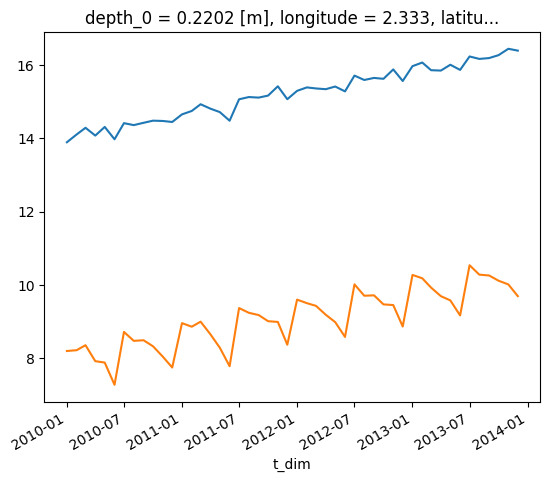
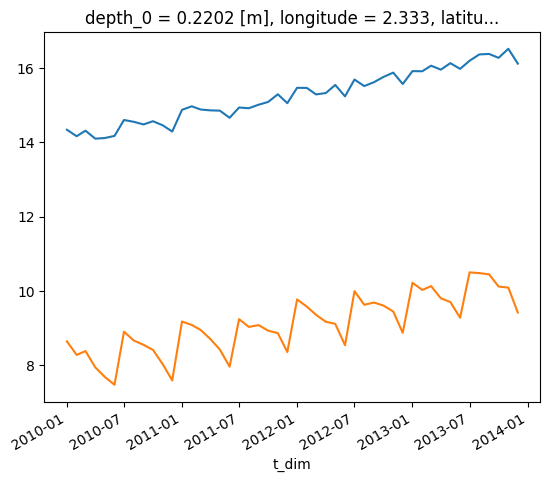
Updated General notebook pages from coast repo.

diff --git a/content/en/docs/Examples/Notebooks/General/seasonal_decomp_example.md b/content/en/docs/Examples/Notebooks/General/seasonal_decomp_example.md
@@ -88,7 +88,7 @@ temperature[0,0,:,:].plot()
 
 
 
-    <matplotlib.collections.QuadMesh at 0x7f105047bc40>
+    <matplotlib.collections.QuadMesh at 0x7fbbc1961220>
 
 
 
@@ -109,7 +109,7 @@ temperature[:,0,200,200].plot()
 
 
 
-    [<matplotlib.lines.Line2D at 0x7f10502c4820>]
+    [<matplotlib.lines.Line2D at 0x7fbbc081bbb0>]
 
 
 
@@ -516,7 +516,7 @@ Dimensions without coordinates: z_dim, y_dim, x_dim
 Data variables:
     trend      (t_dim, z_dim, y_dim, x_dim) float64 nan nan nan ... nan nan nan
     seasonal   (t_dim, z_dim, y_dim, x_dim) float64 nan nan nan ... nan nan nan
-    residual   (t_dim, z_dim, y_dim, x_dim) float64 nan nan nan ... nan nan nan</pre><div class='xr-wrap' style='display:none'><div class='xr-header'><div class='xr-obj-type'>xarray.Dataset</div></div><ul class='xr-sections'><li class='xr-section-item'><input id='section-488f6201-9f62-4a6c-a8ab-4d15d6003612' class='xr-section-summary-in' type='checkbox' disabled ><label for='section-488f6201-9f62-4a6c-a8ab-4d15d6003612' class='xr-section-summary'  title='Expand/collapse section'>Dimensions:</label><div class='xr-section-inline-details'><ul class='xr-dim-list'><li><span class='xr-has-index'>t_dim</span>: 48</li><li><span>z_dim</span>: 2</li><li><span>y_dim</span>: 375</li><li><span>x_dim</span>: 297</li></ul></div><div class='xr-section-details'></div></li><li class='xr-section-item'><input id='section-415a7630-a458-4ae2-a37a-148b297d26a3' class='xr-section-summary-in' type='checkbox'  checked><label for='section-415a7630-a458-4ae2-a37a-148b297d26a3' class='xr-section-summary' >Coordinates: <span>(4)</span></label><div class='xr-section-inline-details'></div><div class='xr-section-details'><ul class='xr-var-list'><li class='xr-var-item'><div class='xr-var-name'><span class='xr-has-index'>t_dim</span></div><div class='xr-var-dims'>(t_dim)</div><div class='xr-var-dtype'>datetime64[ns]</div><div class='xr-var-preview xr-preview'>2010-01-01 ... 2013-12-01</div><input id='attrs-31017391-6084-442f-8f90-3de100cf07af' class='xr-var-attrs-in' type='checkbox' disabled><label for='attrs-31017391-6084-442f-8f90-3de100cf07af' title='Show/Hide attributes'><svg class='icon xr-icon-file-text2'><use xlink:href='#icon-file-text2'></use></svg></label><input id='data-7dfa92f4-e4d8-482c-af1e-b7b2e54ce612' class='xr-var-data-in' type='checkbox'><label for='data-7dfa92f4-e4d8-482c-af1e-b7b2e54ce612' title='Show/Hide data repr'><svg class='icon xr-icon-database'><use xlink:href='#icon-database'></use></svg></label><div class='xr-var-attrs'><dl class='xr-attrs'></dl></div><div class='xr-var-data'><pre>array([&#x27;2010-01-01T00:00:00.000000000&#x27;, &#x27;2010-02-01T00:00:00.000000000&#x27;,
+    residual   (t_dim, z_dim, y_dim, x_dim) float64 nan nan nan ... nan nan nan</pre><div class='xr-wrap' style='display:none'><div class='xr-header'><div class='xr-obj-type'>xarray.Dataset</div></div><ul class='xr-sections'><li class='xr-section-item'><input id='section-a675e13e-d034-49c0-a6f8-c8fabd6f3ec2' class='xr-section-summary-in' type='checkbox' disabled ><label for='section-a675e13e-d034-49c0-a6f8-c8fabd6f3ec2' class='xr-section-summary'  title='Expand/collapse section'>Dimensions:</label><div class='xr-section-inline-details'><ul class='xr-dim-list'><li><span class='xr-has-index'>t_dim</span>: 48</li><li><span>z_dim</span>: 2</li><li><span>y_dim</span>: 375</li><li><span>x_dim</span>: 297</li></ul></div><div class='xr-section-details'></div></li><li class='xr-section-item'><input id='section-d7b93760-6b34-47dd-b63c-cba52e8f0858' class='xr-section-summary-in' type='checkbox'  checked><label for='section-d7b93760-6b34-47dd-b63c-cba52e8f0858' class='xr-section-summary' >Coordinates: <span>(4)</span></label><div class='xr-section-inline-details'></div><div class='xr-section-details'><ul class='xr-var-list'><li class='xr-var-item'><div class='xr-var-name'><span class='xr-has-index'>t_dim</span></div><div class='xr-var-dims'>(t_dim)</div><div class='xr-var-dtype'>datetime64[ns]</div><div class='xr-var-preview xr-preview'>2010-01-01 ... 2013-12-01</div><input id='attrs-86c6580d-7daa-42fa-ab41-ec7627101b7a' class='xr-var-attrs-in' type='checkbox' disabled><label for='attrs-86c6580d-7daa-42fa-ab41-ec7627101b7a' title='Show/Hide attributes'><svg class='icon xr-icon-file-text2'><use xlink:href='#icon-file-text2'></use></svg></label><input id='data-8cd18c7d-f1ab-4517-a1e8-da5e5eaf7d29' class='xr-var-data-in' type='checkbox'><label for='data-8cd18c7d-f1ab-4517-a1e8-da5e5eaf7d29' title='Show/Hide data repr'><svg class='icon xr-icon-database'><use xlink:href='#icon-database'></use></svg></label><div class='xr-var-attrs'><dl class='xr-attrs'></dl></div><div class='xr-var-data'><pre>array([&#x27;2010-01-01T00:00:00.000000000&#x27;, &#x27;2010-02-01T00:00:00.000000000&#x27;,
        &#x27;2010-03-01T00:00:00.000000000&#x27;, &#x27;2010-04-01T00:00:00.000000000&#x27;,
        &#x27;2010-05-01T00:00:00.000000000&#x27;, &#x27;2010-06-01T00:00:00.000000000&#x27;,
        &#x27;2010-07-01T00:00:00.000000000&#x27;, &#x27;2010-08-01T00:00:00.000000000&#x27;,
@@ -540,7 +540,7 @@ Data variables:
        &#x27;2013-07-01T00:00:00.000000000&#x27;, &#x27;2013-08-01T00:00:00.000000000&#x27;,
        &#x27;2013-09-01T00:00:00.000000000&#x27;, &#x27;2013-10-01T00:00:00.000000000&#x27;,
        &#x27;2013-11-01T00:00:00.000000000&#x27;, &#x27;2013-12-01T00:00:00.000000000&#x27;],
-      dtype=&#x27;datetime64[ns]&#x27;)</pre></div></li><li class='xr-var-item'><div class='xr-var-name'><span>depth_0</span></div><div class='xr-var-dims'>(z_dim, y_dim, x_dim)</div><div class='xr-var-dtype'>float32</div><div class='xr-var-preview xr-preview'>0.5 0.5 0.5 0.5 ... 1.5 1.5 1.5 1.5</div><input id='attrs-51cff84f-f42b-4898-b126-81de043ced5f' class='xr-var-attrs-in' type='checkbox' ><label for='attrs-51cff84f-f42b-4898-b126-81de043ced5f' title='Show/Hide attributes'><svg class='icon xr-icon-file-text2'><use xlink:href='#icon-file-text2'></use></svg></label><input id='data-d42b8908-6994-4aba-a6fd-14925ca093ee' class='xr-var-data-in' type='checkbox'><label for='data-d42b8908-6994-4aba-a6fd-14925ca093ee' title='Show/Hide data repr'><svg class='icon xr-icon-database'><use xlink:href='#icon-database'></use></svg></label><div class='xr-var-attrs'><dl class='xr-attrs'><dt><span>units :</span></dt><dd>m</dd><dt><span>standard_name :</span></dt><dd>Depth at time zero on the t-grid</dd></dl></div><div class='xr-var-data'><pre>array([[[0.5       , 0.5       , 0.5       , ..., 0.5       ,
+      dtype=&#x27;datetime64[ns]&#x27;)</pre></div></li><li class='xr-var-item'><div class='xr-var-name'><span>depth_0</span></div><div class='xr-var-dims'>(z_dim, y_dim, x_dim)</div><div class='xr-var-dtype'>float32</div><div class='xr-var-preview xr-preview'>0.5 0.5 0.5 0.5 ... 1.5 1.5 1.5 1.5</div><input id='attrs-58fb2e4d-7730-4e13-a35d-6566832864b2' class='xr-var-attrs-in' type='checkbox' ><label for='attrs-58fb2e4d-7730-4e13-a35d-6566832864b2' title='Show/Hide attributes'><svg class='icon xr-icon-file-text2'><use xlink:href='#icon-file-text2'></use></svg></label><input id='data-e87dfb83-8d6d-4455-ab87-78f550e2a42e' class='xr-var-data-in' type='checkbox'><label for='data-e87dfb83-8d6d-4455-ab87-78f550e2a42e' title='Show/Hide data repr'><svg class='icon xr-icon-database'><use xlink:href='#icon-database'></use></svg></label><div class='xr-var-attrs'><dl class='xr-attrs'><dt><span>units :</span></dt><dd>m</dd><dt><span>standard_name :</span></dt><dd>Depth at time zero on the t-grid</dd></dl></div><div class='xr-var-data'><pre>array([[[0.5       , 0.5       , 0.5       , ..., 0.5       ,
          0.5       , 0.5       ],
         [0.5       , 0.4975586 , 0.4975586 , ..., 0.10009766,
          0.10009766, 0.5       ],
@@ -566,7 +566,7 @@ Data variables:
         [1.5       , 0.30029297, 0.30029297, ..., 0.30029297,
          0.30029297, 1.5       ],
         [1.5       , 1.5       , 1.5       , ..., 1.5       ,
-         1.5       , 1.5       ]]], dtype=float32)</pre></div></li><li class='xr-var-item'><div class='xr-var-name'><span>longitude</span></div><div class='xr-var-dims'>(y_dim, x_dim)</div><div class='xr-var-dtype'>float32</div><div class='xr-var-preview xr-preview'>-19.89 -19.78 -19.67 ... 12.89 13.0</div><input id='attrs-e064d81a-f09c-4229-8bd5-89aa8d947b72' class='xr-var-attrs-in' type='checkbox' disabled><label for='attrs-e064d81a-f09c-4229-8bd5-89aa8d947b72' title='Show/Hide attributes'><svg class='icon xr-icon-file-text2'><use xlink:href='#icon-file-text2'></use></svg></label><input id='data-4b07b920-9634-4832-bc17-227da590a1f0' class='xr-var-data-in' type='checkbox'><label for='data-4b07b920-9634-4832-bc17-227da590a1f0' title='Show/Hide data repr'><svg class='icon xr-icon-database'><use xlink:href='#icon-database'></use></svg></label><div class='xr-var-attrs'><dl class='xr-attrs'></dl></div><div class='xr-var-data'><pre>array([[-19.888672, -19.777344, -19.666992, ...,  12.777344,  12.888672,
+         1.5       , 1.5       ]]], dtype=float32)</pre></div></li><li class='xr-var-item'><div class='xr-var-name'><span>longitude</span></div><div class='xr-var-dims'>(y_dim, x_dim)</div><div class='xr-var-dtype'>float32</div><div class='xr-var-preview xr-preview'>-19.89 -19.78 -19.67 ... 12.89 13.0</div><input id='attrs-f739bab9-daee-42c9-b183-90556fe66d80' class='xr-var-attrs-in' type='checkbox' disabled><label for='attrs-f739bab9-daee-42c9-b183-90556fe66d80' title='Show/Hide attributes'><svg class='icon xr-icon-file-text2'><use xlink:href='#icon-file-text2'></use></svg></label><input id='data-daa8380f-4b8f-4b75-9743-e97c11f80944' class='xr-var-data-in' type='checkbox'><label for='data-daa8380f-4b8f-4b75-9743-e97c11f80944' title='Show/Hide data repr'><svg class='icon xr-icon-database'><use xlink:href='#icon-database'></use></svg></label><div class='xr-var-attrs'><dl class='xr-attrs'></dl></div><div class='xr-var-data'><pre>array([[-19.888672, -19.777344, -19.666992, ...,  12.777344,  12.888672,
          13.      ],
        [-19.888672, -19.777344, -19.666992, ...,  12.777344,  12.888672,
          13.      ],
@@ -578,7 +578,7 @@ Data variables:
        [-19.888672, -19.777344, -19.666992, ...,  12.777344,  12.888672,
          13.      ],
        [-19.888672, -19.777344, -19.666992, ...,  12.777344,  12.888672,
-         13.      ]], dtype=float32)</pre></div></li><li class='xr-var-item'><div class='xr-var-name'><span>latitude</span></div><div class='xr-var-dims'>(y_dim, x_dim)</div><div class='xr-var-dtype'>float32</div><div class='xr-var-preview xr-preview'>40.07 40.07 40.07 ... 65.0 65.0</div><input id='attrs-8c1b1205-57bb-4192-ad6e-221c39f39ef8' class='xr-var-attrs-in' type='checkbox' disabled><label for='attrs-8c1b1205-57bb-4192-ad6e-221c39f39ef8' title='Show/Hide attributes'><svg class='icon xr-icon-file-text2'><use xlink:href='#icon-file-text2'></use></svg></label><input id='data-276e27f0-c8e9-480e-ac32-1137b9378629' class='xr-var-data-in' type='checkbox'><label for='data-276e27f0-c8e9-480e-ac32-1137b9378629' title='Show/Hide data repr'><svg class='icon xr-icon-database'><use xlink:href='#icon-database'></use></svg></label><div class='xr-var-attrs'><dl class='xr-attrs'></dl></div><div class='xr-var-data'><pre>array([[40.066406, 40.066406, 40.066406, ..., 40.066406, 40.066406,
+         13.      ]], dtype=float32)</pre></div></li><li class='xr-var-item'><div class='xr-var-name'><span>latitude</span></div><div class='xr-var-dims'>(y_dim, x_dim)</div><div class='xr-var-dtype'>float32</div><div class='xr-var-preview xr-preview'>40.07 40.07 40.07 ... 65.0 65.0</div><input id='attrs-6201d83b-96ed-4a39-bca7-b6a4849ae7dc' class='xr-var-attrs-in' type='checkbox' disabled><label for='attrs-6201d83b-96ed-4a39-bca7-b6a4849ae7dc' title='Show/Hide attributes'><svg class='icon xr-icon-file-text2'><use xlink:href='#icon-file-text2'></use></svg></label><input id='data-a8d03361-0828-40b6-9ec4-37c36b48d8f8' class='xr-var-data-in' type='checkbox'><label for='data-a8d03361-0828-40b6-9ec4-37c36b48d8f8' title='Show/Hide data repr'><svg class='icon xr-icon-database'><use xlink:href='#icon-database'></use></svg></label><div class='xr-var-attrs'><dl class='xr-attrs'></dl></div><div class='xr-var-data'><pre>array([[40.066406, 40.066406, 40.066406, ..., 40.066406, 40.066406,
         40.066406],
        [40.13379 , 40.13379 , 40.13379 , ..., 40.13379 , 40.13379 ,
         40.13379 ],
@@ -590,11 +590,11 @@ Data variables:
        [64.93457 , 64.93457 , 64.93457 , ..., 64.93457 , 64.93457 ,
         64.93457 ],
        [65.00098 , 65.00098 , 65.00098 , ..., 65.00098 , 65.00098 ,
-        65.00098 ]], dtype=float32)</pre></div></li></ul></div></li><li class='xr-section-item'><input id='section-532f3998-5415-4adb-89e6-6cbf18f1e282' class='xr-section-summary-in' type='checkbox'  checked><label for='section-532f3998-5415-4adb-89e6-6cbf18f1e282' class='xr-section-summary' >Data variables: <span>(3)</span></label><div class='xr-section-inline-details'></div><div class='xr-section-details'><ul class='xr-var-list'><li class='xr-var-item'><div class='xr-var-name'><span>trend</span></div><div class='xr-var-dims'>(t_dim, z_dim, y_dim, x_dim)</div><div class='xr-var-dtype'>float64</div><div class='xr-var-preview xr-preview'>nan nan nan nan ... nan nan nan nan</div><input id='attrs-45a3152a-23ba-41a2-833a-79f02be2360f' class='xr-var-attrs-in' type='checkbox' disabled><label for='attrs-45a3152a-23ba-41a2-833a-79f02be2360f' title='Show/Hide attributes'><svg class='icon xr-icon-file-text2'><use xlink:href='#icon-file-text2'></use></svg></label><input id='data-ee152a32-8897-49a7-baea-9096bd0cd25b' class='xr-var-data-in' type='checkbox'><label for='data-ee152a32-8897-49a7-baea-9096bd0cd25b' title='Show/Hide data repr'><svg class='icon xr-icon-database'><use xlink:href='#icon-database'></use></svg></label><div class='xr-var-attrs'><dl class='xr-attrs'></dl></div><div class='xr-var-data'><pre>array([[[[        nan,         nan,         nan, ...,         nan,
+        65.00098 ]], dtype=float32)</pre></div></li></ul></div></li><li class='xr-section-item'><input id='section-20a8558c-8f45-423c-b404-492c6234f31b' class='xr-section-summary-in' type='checkbox'  checked><label for='section-20a8558c-8f45-423c-b404-492c6234f31b' class='xr-section-summary' >Data variables: <span>(3)</span></label><div class='xr-section-inline-details'></div><div class='xr-section-details'><ul class='xr-var-list'><li class='xr-var-item'><div class='xr-var-name'><span>trend</span></div><div class='xr-var-dims'>(t_dim, z_dim, y_dim, x_dim)</div><div class='xr-var-dtype'>float64</div><div class='xr-var-preview xr-preview'>nan nan nan nan ... nan nan nan nan</div><input id='attrs-8a64244b-1493-445d-a6b1-c2412ddabe09' class='xr-var-attrs-in' type='checkbox' disabled><label for='attrs-8a64244b-1493-445d-a6b1-c2412ddabe09' title='Show/Hide attributes'><svg class='icon xr-icon-file-text2'><use xlink:href='#icon-file-text2'></use></svg></label><input id='data-6ba59756-5600-4a15-b21b-84258c7fda7b' class='xr-var-data-in' type='checkbox'><label for='data-6ba59756-5600-4a15-b21b-84258c7fda7b' title='Show/Hide data repr'><svg class='icon xr-icon-database'><use xlink:href='#icon-database'></use></svg></label><div class='xr-var-attrs'><dl class='xr-attrs'></dl></div><div class='xr-var-data'><pre>array([[[[        nan,         nan,         nan, ...,         nan,
                   nan,         nan],
-         [        nan, 15.29440737, 15.29115216, ...,         nan,
+         [        nan, 15.33992796, 15.33667275, ...,         nan,
                   nan,         nan],
-         [        nan, 15.28333966, 15.45114565, ...,         nan,
+         [        nan, 15.32886025, 15.49666624, ...,         nan,
                   nan,         nan],
          ...,
          [        nan,         nan,         nan, ...,         nan,
@@ -606,9 +606,9 @@ Data variables:
 
         [[        nan,         nan,         nan, ...,         nan,
                   nan,         nan],
-         [        nan, 15.29343081, 15.29033836, ...,         nan,
+         [        nan, 15.33895139, 15.33585895, ...,         nan,
                   nan,         nan],
-         [        nan, 15.28220034, 15.4550519 , ...,         nan,
+         [        nan, 15.32772092, 15.50057249, ...,         nan,
                   nan,         nan],
 ...
          [        nan,         nan,         nan, ...,         nan,
@@ -620,9 +620,9 @@ Data variables:
 
         [[        nan,         nan,         nan, ...,         nan,
                   nan,         nan],
-         [        nan, 17.60582731, 17.60273486, ...,         nan,
+         [        nan, 17.76666198, 17.76356954, ...,         nan,
                   nan,         nan],
-         [        nan, 17.59459684, 17.76744841, ...,         nan,
+         [        nan, 17.75543151, 17.92828308, ...,         nan,
                   nan,         nan],
          ...,
          [        nan,         nan,         nan, ...,         nan,
@@ -630,11 +630,11 @@ Data variables:
          [        nan,         nan,         nan, ...,         nan,
                   nan,         nan],
          [        nan,         nan,         nan, ...,         nan,
-                  nan,         nan]]]])</pre></div></li><li class='xr-var-item'><div class='xr-var-name'><span>seasonal</span></div><div class='xr-var-dims'>(t_dim, z_dim, y_dim, x_dim)</div><div class='xr-var-dtype'>float64</div><div class='xr-var-preview xr-preview'>nan nan nan nan ... nan nan nan nan</div><input id='attrs-2f4b2c30-b6bd-451c-9170-9cf609b94d18' class='xr-var-attrs-in' type='checkbox' disabled><label for='attrs-2f4b2c30-b6bd-451c-9170-9cf609b94d18' title='Show/Hide attributes'><svg class='icon xr-icon-file-text2'><use xlink:href='#icon-file-text2'></use></svg></label><input id='data-fd12b769-339c-4044-94b6-af2f9f95a0d1' class='xr-var-data-in' type='checkbox'><label for='data-fd12b769-339c-4044-94b6-af2f9f95a0d1' title='Show/Hide data repr'><svg class='icon xr-icon-database'><use xlink:href='#icon-database'></use></svg></label><div class='xr-var-attrs'><dl class='xr-attrs'></dl></div><div class='xr-var-data'><pre>array([[[[        nan,         nan,         nan, ...,         nan,
+                  nan,         nan]]]])</pre></div></li><li class='xr-var-item'><div class='xr-var-name'><span>seasonal</span></div><div class='xr-var-dims'>(t_dim, z_dim, y_dim, x_dim)</div><div class='xr-var-dtype'>float64</div><div class='xr-var-preview xr-preview'>nan nan nan nan ... nan nan nan nan</div><input id='attrs-834703a3-2985-4e7e-aff0-e954c04cf08a' class='xr-var-attrs-in' type='checkbox' disabled><label for='attrs-834703a3-2985-4e7e-aff0-e954c04cf08a' title='Show/Hide attributes'><svg class='icon xr-icon-file-text2'><use xlink:href='#icon-file-text2'></use></svg></label><input id='data-0eb172db-4d14-4522-acdf-f755b8df5249' class='xr-var-data-in' type='checkbox'><label for='data-0eb172db-4d14-4522-acdf-f755b8df5249' title='Show/Hide data repr'><svg class='icon xr-icon-database'><use xlink:href='#icon-database'></use></svg></label><div class='xr-var-attrs'><dl class='xr-attrs'></dl></div><div class='xr-var-data'><pre>array([[[[        nan,         nan,         nan, ...,         nan,
                   nan,         nan],
-         [        nan,  0.04063317, -0.04302568, ...,         nan,
+         [        nan,  0.10801751,  0.02435866, ...,         nan,
                   nan,         nan],
-         [        nan,  0.06634932,  0.29600426, ...,         nan,
+         [        nan,  0.13373366,  0.36338861, ...,         nan,
                   nan,         nan],
          ...,
          [        nan,         nan,         nan, ...,         nan,
@@ -646,9 +646,9 @@ Data variables:
 
         [[        nan,         nan,         nan, ...,         nan,
                   nan,         nan],
-         [        nan,  0.02989098, -0.05393063, ...,         nan,
+         [        nan,  0.09727533,  0.01345371, ...,         nan,
                   nan,         nan],
-         [        nan,  0.05576989,  0.29209801, ...,         nan,
+         [        nan,  0.12315423,  0.35948236, ...,         nan,
                   nan,         nan],
 ...
          [        nan,         nan,         nan, ...,         nan,
@@ -660,9 +660,9 @@ Data variables:
 
         [[        nan,         nan,         nan, ...,         nan,
                   nan,         nan],
-         [        nan, -0.27086786, -0.25410354, ...,         nan,
+         [        nan, -0.31356226, -0.29679794, ...,         nan,
                   nan,         nan],
-         [        nan, -0.28112177, -0.62975458, ...,         nan,
+         [        nan, -0.32381617, -0.67244898, ...,         nan,
                   nan,         nan],
          ...,
          [        nan,         nan,         nan, ...,         nan,
@@ -670,11 +670,11 @@ Data variables:
          [        nan,         nan,         nan, ...,         nan,
                   nan,         nan],
          [        nan,         nan,         nan, ...,         nan,
-                  nan,         nan]]]])</pre></div></li><li class='xr-var-item'><div class='xr-var-name'><span>residual</span></div><div class='xr-var-dims'>(t_dim, z_dim, y_dim, x_dim)</div><div class='xr-var-dtype'>float64</div><div class='xr-var-preview xr-preview'>nan nan nan nan ... nan nan nan nan</div><input id='attrs-b3d2248c-5dbf-4e71-a64e-1be46351a3d1' class='xr-var-attrs-in' type='checkbox' disabled><label for='attrs-b3d2248c-5dbf-4e71-a64e-1be46351a3d1' title='Show/Hide attributes'><svg class='icon xr-icon-file-text2'><use xlink:href='#icon-file-text2'></use></svg></label><input id='data-7afa8dcd-5724-4d87-be8f-0a6f9f00f629' class='xr-var-data-in' type='checkbox'><label for='data-7afa8dcd-5724-4d87-be8f-0a6f9f00f629' title='Show/Hide data repr'><svg class='icon xr-icon-database'><use xlink:href='#icon-database'></use></svg></label><div class='xr-var-attrs'><dl class='xr-attrs'></dl></div><div class='xr-var-data'><pre>array([[[[        nan,         nan,         nan, ...,         nan,
+                  nan,         nan]]]])</pre></div></li><li class='xr-var-item'><div class='xr-var-name'><span>residual</span></div><div class='xr-var-dims'>(t_dim, z_dim, y_dim, x_dim)</div><div class='xr-var-dtype'>float64</div><div class='xr-var-preview xr-preview'>nan nan nan nan ... nan nan nan nan</div><input id='attrs-4947a8a7-f03c-4f88-ad49-262b13e169cd' class='xr-var-attrs-in' type='checkbox' disabled><label for='attrs-4947a8a7-f03c-4f88-ad49-262b13e169cd' title='Show/Hide attributes'><svg class='icon xr-icon-file-text2'><use xlink:href='#icon-file-text2'></use></svg></label><input id='data-d16efa08-a6a4-43bf-b1f2-e1270e507082' class='xr-var-data-in' type='checkbox'><label for='data-d16efa08-a6a4-43bf-b1f2-e1270e507082' title='Show/Hide data repr'><svg class='icon xr-icon-database'><use xlink:href='#icon-database'></use></svg></label><div class='xr-var-attrs'><dl class='xr-attrs'></dl></div><div class='xr-var-data'><pre>array([[[[        nan,         nan,         nan, ...,         nan,
                   nan,         nan],
-         [        nan, -0.19575414, -0.19575414, ...,         nan,
+         [        nan,  0.13672022,  0.13672022, ...,         nan,
                   nan,         nan],
-         [        nan, -0.19575414, -0.19575414, ...,         nan,
+         [        nan,  0.13672022,  0.13672022, ...,         nan,
                   nan,         nan],
          ...,
          [        nan,         nan,         nan, ...,         nan,
@@ -686,9 +686,9 @@ Data variables:
 
         [[        nan,         nan,         nan, ...,         nan,
                   nan,         nan],
-         [        nan, -0.19575414, -0.19575414, ...,         nan,
+         [        nan,  0.13672022,  0.13672022, ...,         nan,
                   nan,         nan],
-         [        nan, -0.19575414, -0.19575414, ...,         nan,
+         [        nan,  0.13672022,  0.13672022, ...,         nan,
                   nan,         nan],
 ...
          [        nan,         nan,         nan, ...,         nan,
@@ -700,9 +700,9 @@ Data variables:
 
         [[        nan,         nan,         nan, ...,         nan,
                   nan,         nan],
-         [        nan,  0.25820747,  0.25820747, ...,         nan,
+         [        nan, -0.13486385, -0.13486385, ...,         nan,
                   nan,         nan],
-         [        nan,  0.25820747,  0.25820747, ...,         nan,
+         [        nan, -0.13486385, -0.13486385, ...,         nan,
                   nan,         nan],
          ...,
          [        nan,         nan,         nan, ...,         nan,
@@ -710,7 +710,7 @@ Data variables:
          [        nan,         nan,         nan, ...,         nan,
                   nan,         nan],
          [        nan,         nan,         nan, ...,         nan,
-                  nan,         nan]]]])</pre></div></li></ul></div></li><li class='xr-section-item'><input id='section-f016119b-0cbf-4bb9-82ce-03bc64d7909e' class='xr-section-summary-in' type='checkbox' disabled ><label for='section-f016119b-0cbf-4bb9-82ce-03bc64d7909e' class='xr-section-summary'  title='Expand/collapse section'>Attributes: <span>(0)</span></label><div class='xr-section-inline-details'></div><div class='xr-section-details'><dl class='xr-attrs'></dl></div></li></ul></div></div>
+                  nan,         nan]]]])</pre></div></li></ul></div></li><li class='xr-section-item'><input id='section-cc73b72a-477b-4386-b922-93c5751b3d35' class='xr-section-summary-in' type='checkbox' disabled ><label for='section-cc73b72a-477b-4386-b922-93c5751b3d35' class='xr-section-summary'  title='Expand/collapse section'>Attributes: <span>(0)</span></label><div class='xr-section-inline-details'></div><div class='xr-section-details'><dl class='xr-attrs'></dl></div></li></ul></div></div>
 
 
 
@@ -729,9 +729,9 @@ temp_decomp[:,:,0,200,200].plot(hue="component")
 
 
 
-    [<matplotlib.lines.Line2D at 0x7f1050171cd0>,
-     <matplotlib.lines.Line2D at 0x7f10501c68e0>,
-     <matplotlib.lines.Line2D at 0x7f105017f190>]
+    [<matplotlib.lines.Line2D at 0x7fbbc06a9550>,
+     <matplotlib.lines.Line2D at 0x7fbbc06d1af0>,
+     <matplotlib.lines.Line2D at 0x7fbbc06d1a60>]
 
 
 

diff --git a/content/en/docs/Examples/Notebooks/General/eof_tutorial.md b/content/en/docs/Examples/Notebooks/General/eof_tutorial.md
@@ -70,7 +70,7 @@ eof_data.EOF.sel(mode=[1,2,3,4]).plot.pcolormesh(col='mode',col_wrap=2,x='longit
 
 
 
-    <xarray.plot.facetgrid.FacetGrid at 0x7f5258df34f0>
+    <xarray.plot.facetgrid.FacetGrid at 0x7fd1686dd0a0>
 
 
 
@@ -88,7 +88,7 @@ eof_data.temporal_proj.sel(mode=[1,2,3,4]).plot(col='mode',col_wrap=2,x='time')
 
 
 
-    <xarray.plot.facetgrid.FacetGrid at 0x7f520ff9fd30>
+    <xarray.plot.facetgrid.FacetGrid at 0x7fd1286c6a00>
 
 
 
